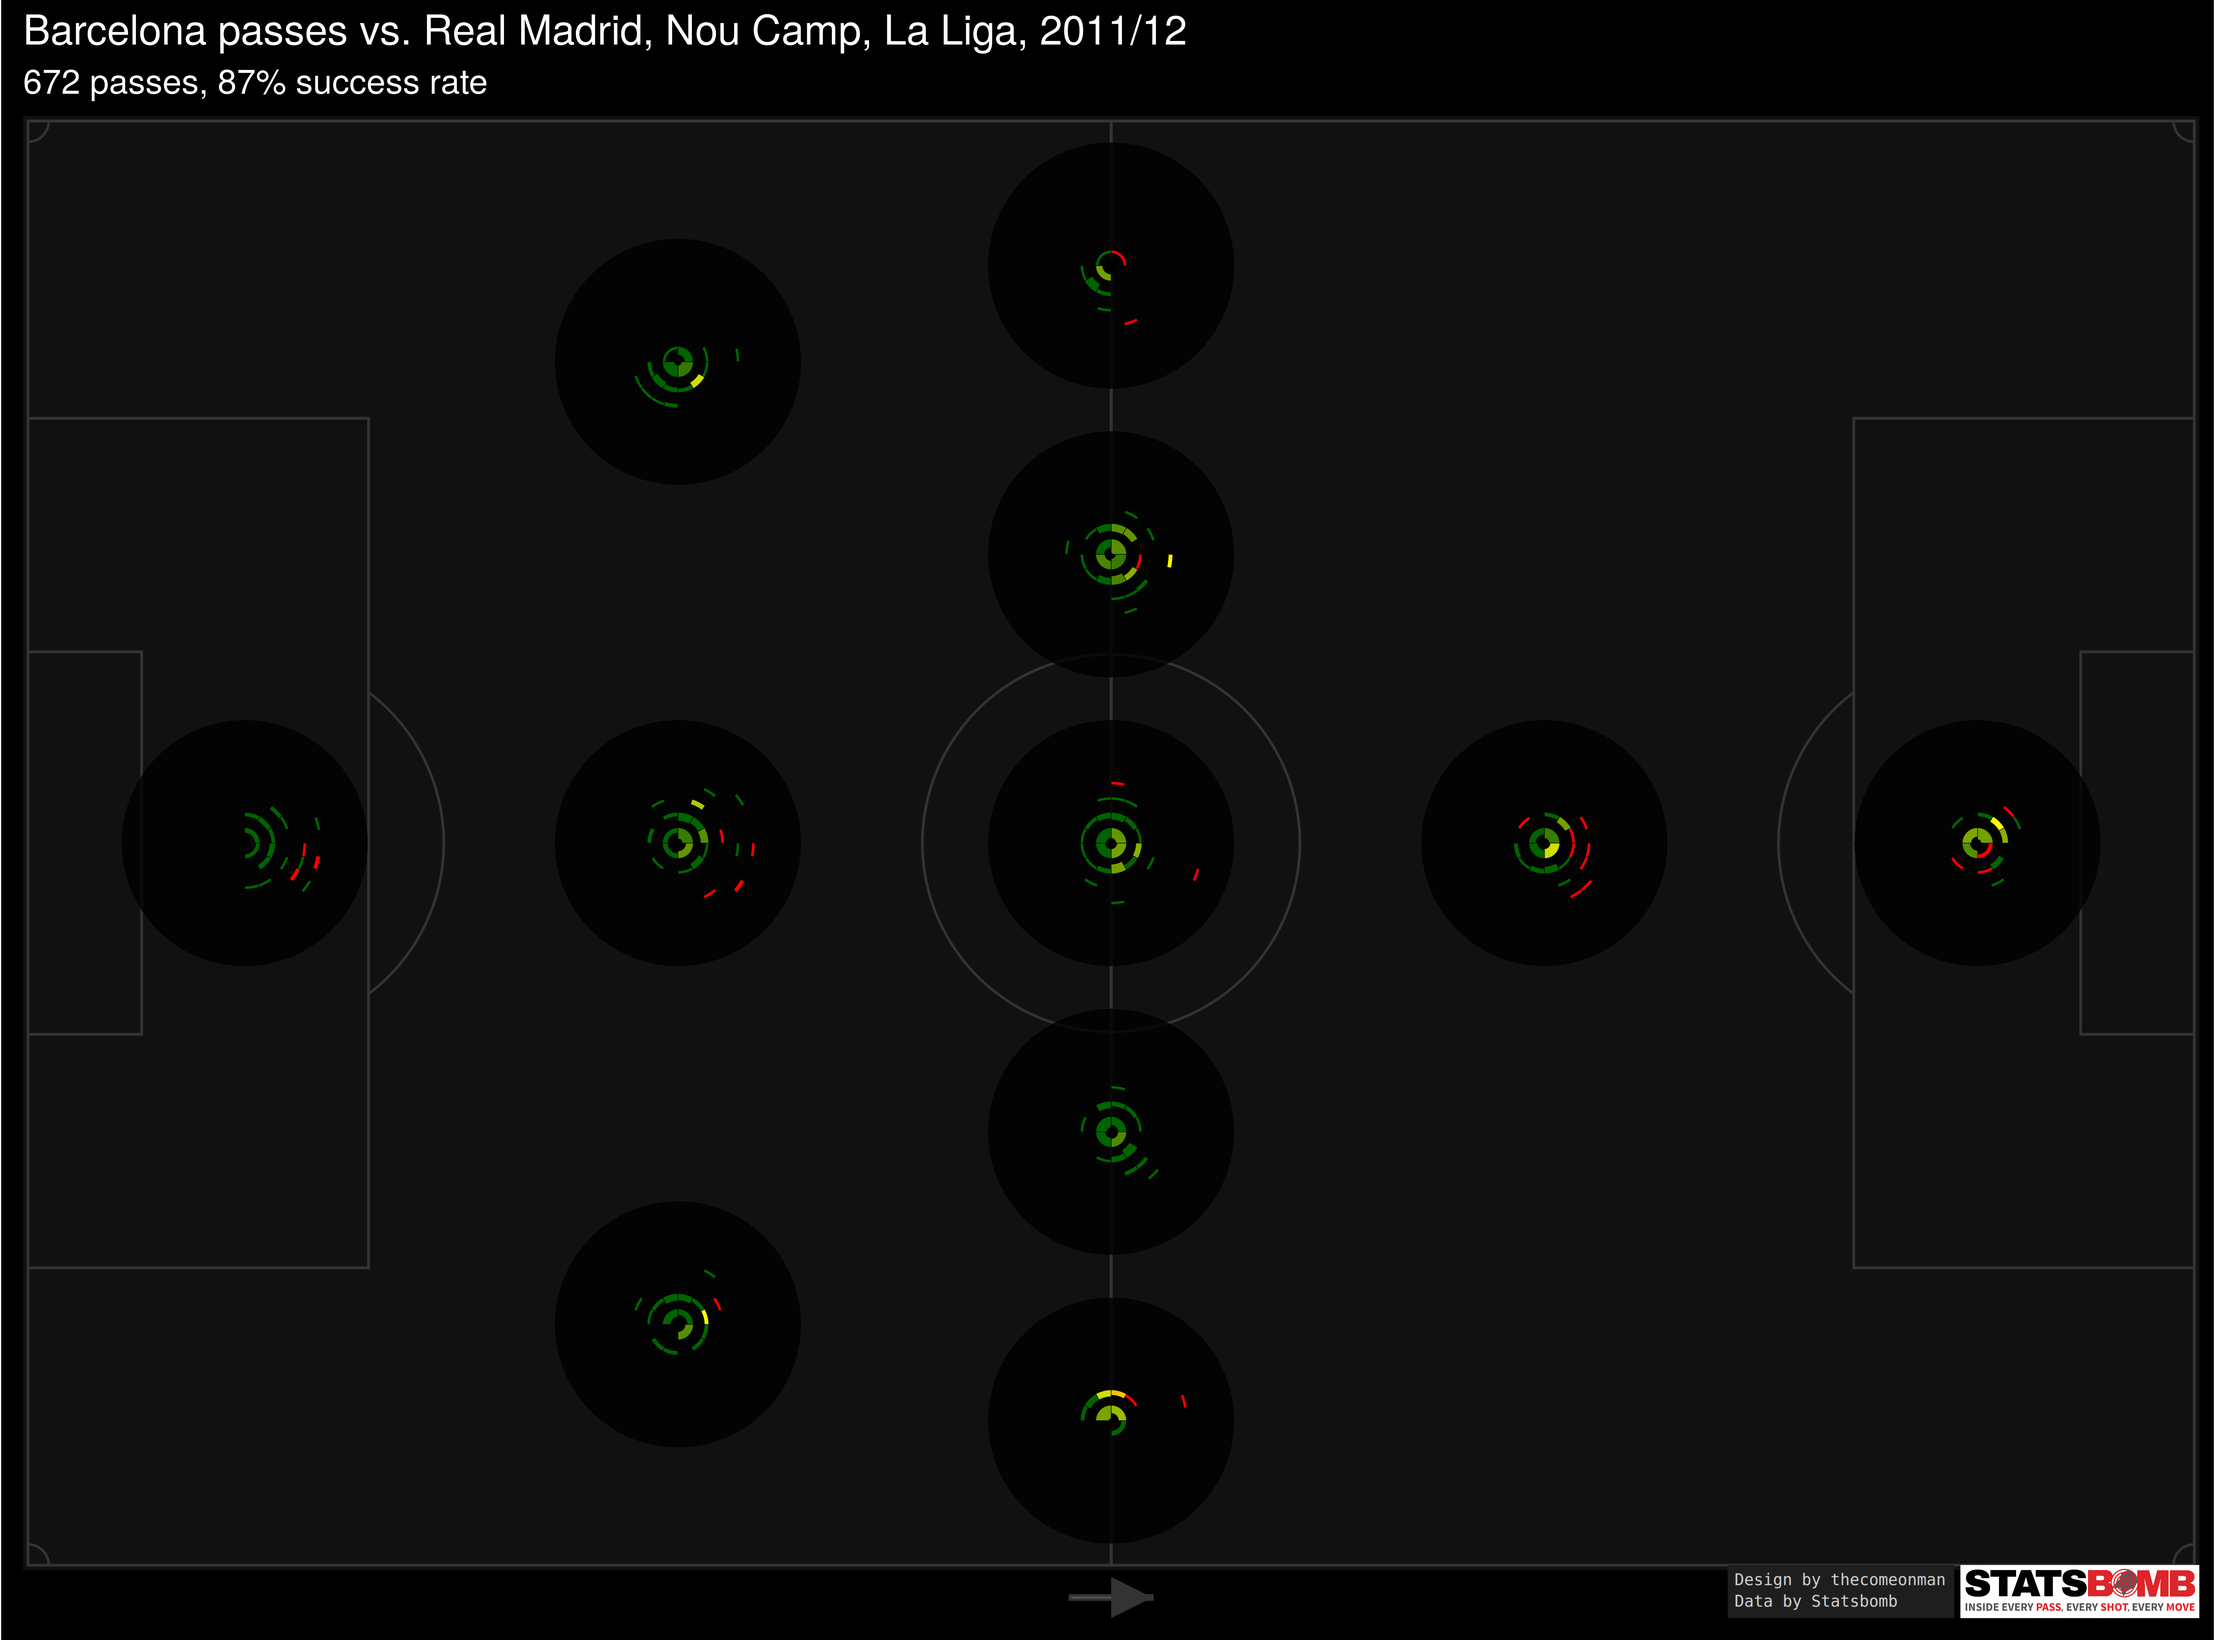
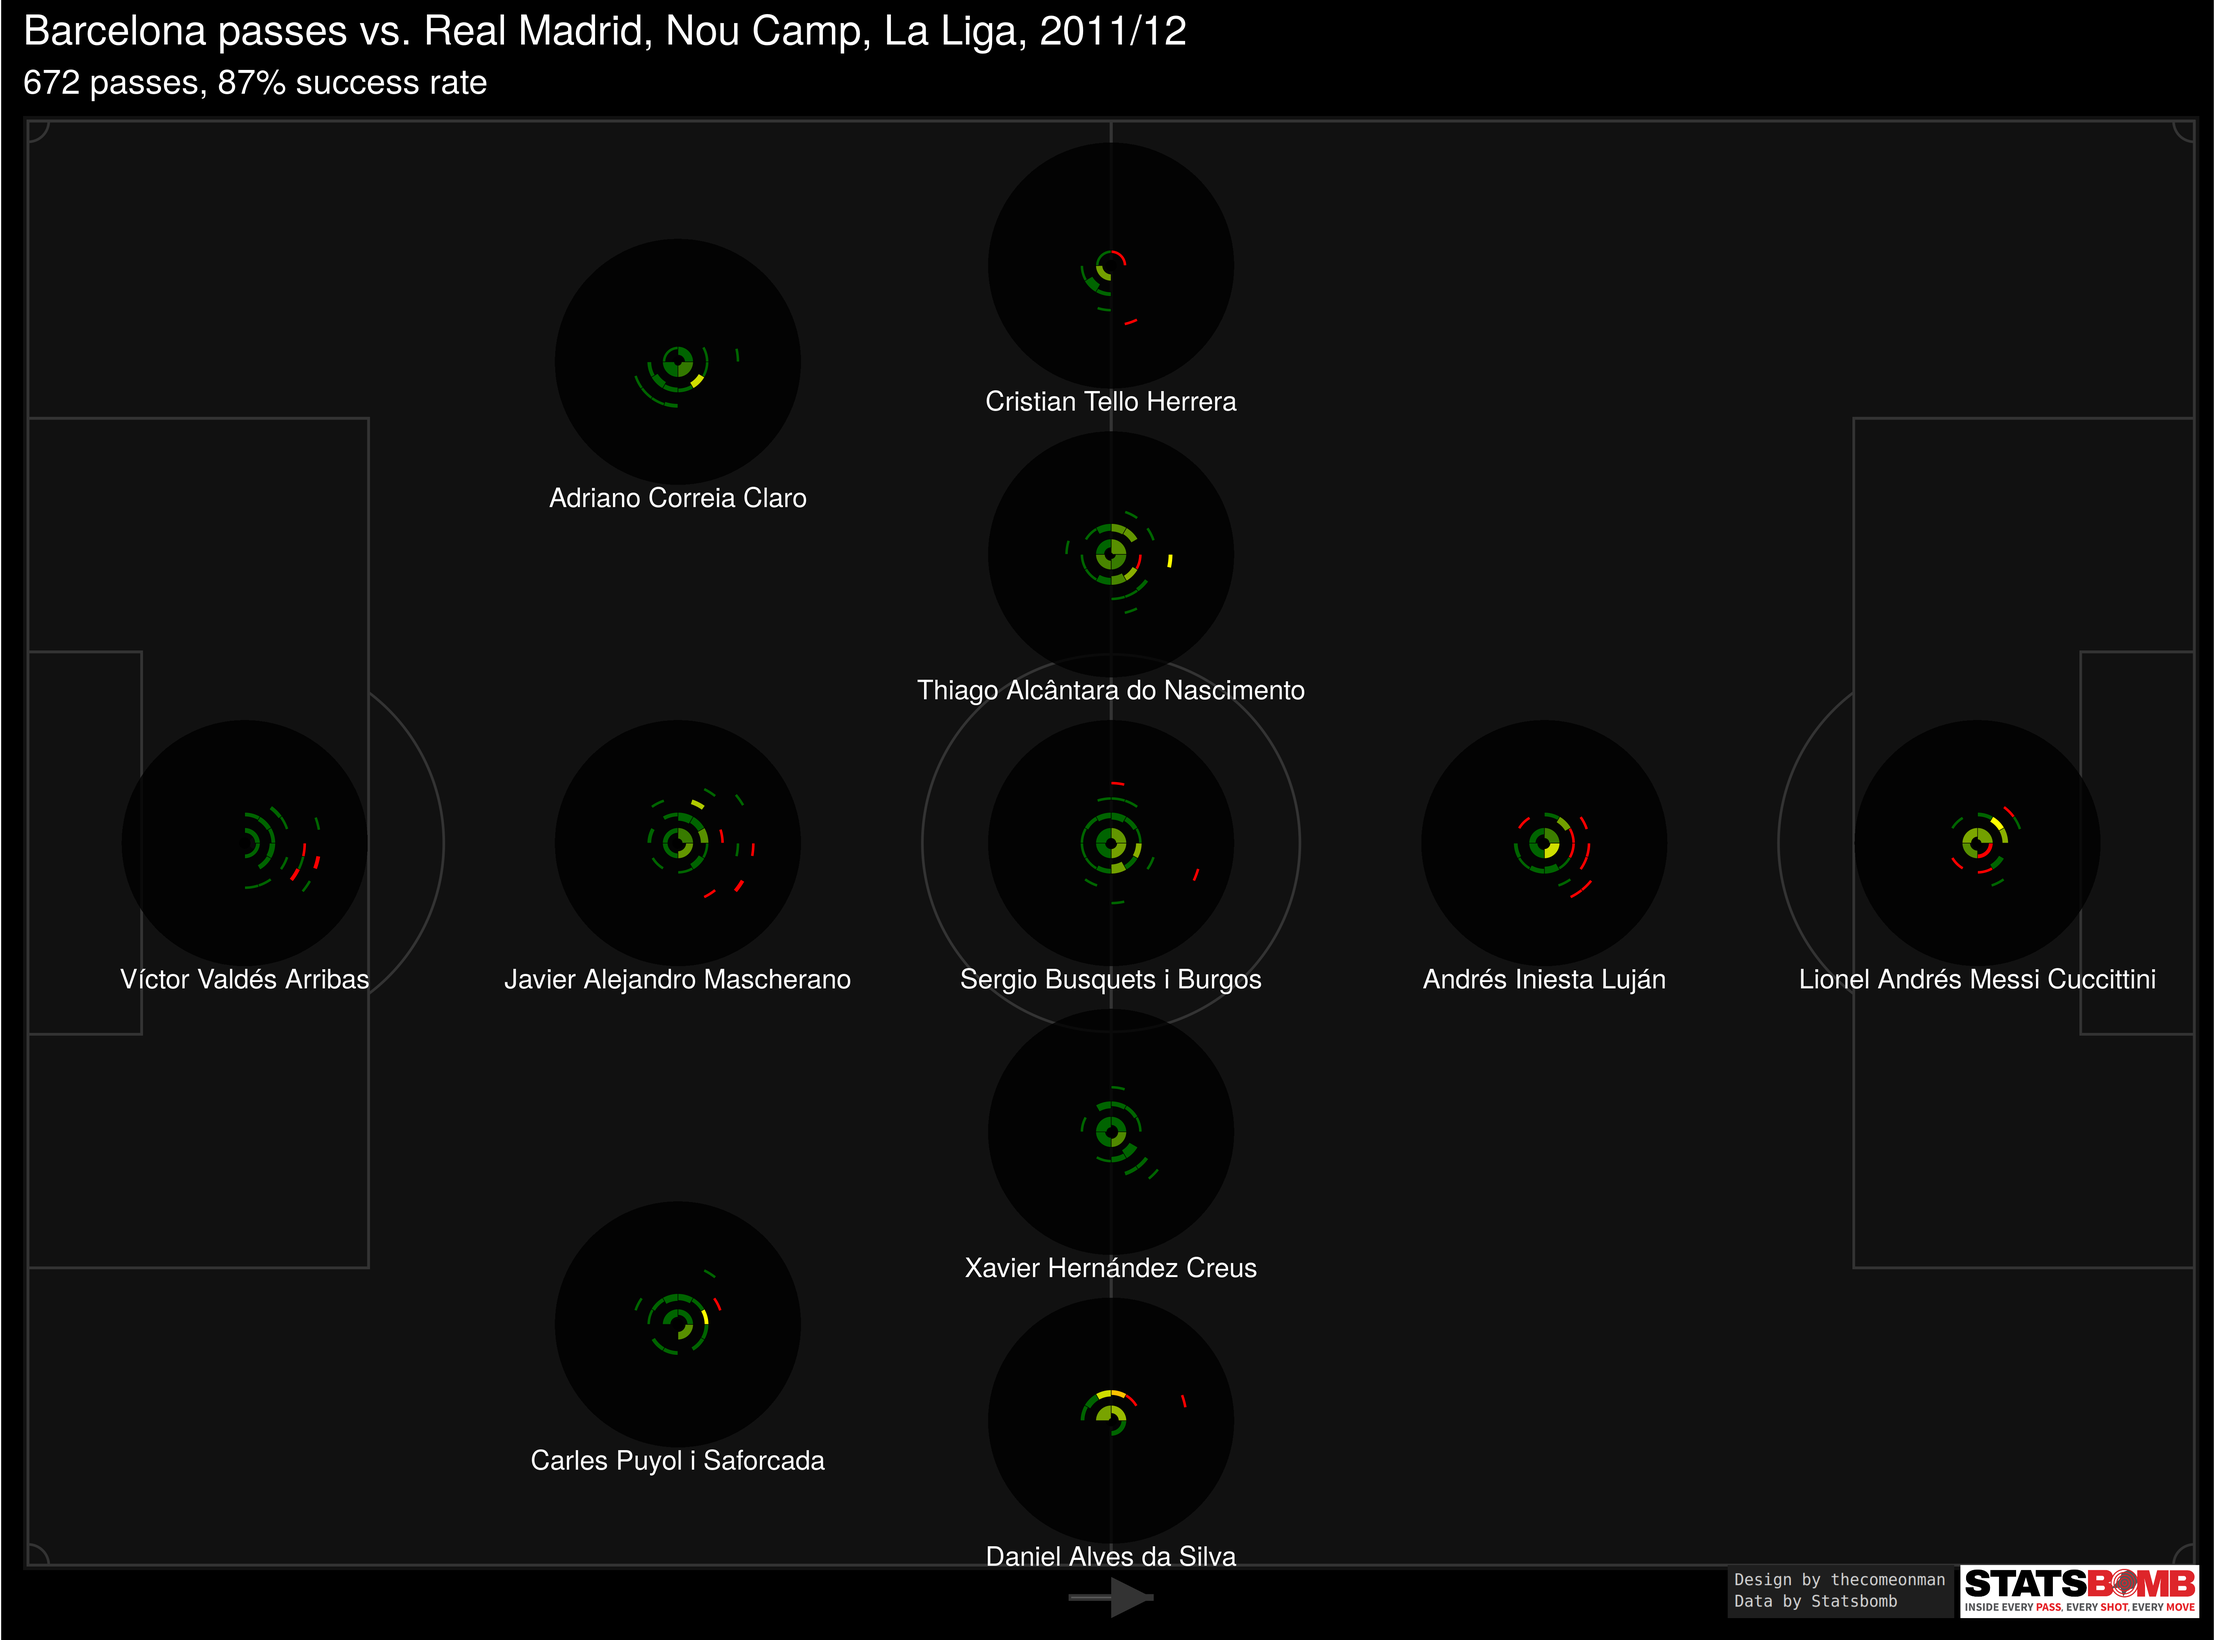
Added labels for player break up.

diff --git a/README.md b/README.md
@@ -89,3 +89,30 @@ we’re going to have to stick to sonar.
 ( opening images in a new tab by themselves might be a better view )
 
 <img src="./plotOverallSonar.png" width="1500" /><img src="./plotPitchBreakupSonar.png" width="1500" /><img src="./plotPlayerBreakupSonar.png" width="1500" />
+
+### How you can make this for your data
+
+The code is in R, in the Readme.Rmd file.
+
+Edit the self-explanatory variables in the Setup chunk. You may not have
+the watermark images in which case you can skip the watermarks chunk.
+
+The position coordinates for the formations for a 4-3-3 and a 3-5-1-1
+are available in the code but you will need to add these for your
+positions. ctrl + F for 3511 and add your formation details there.
+
+The dimensions of the final image affect the size of the text. For the
+pitch break up and the overall sonar, just use the settings I use. For
+the player split, depending on the formation the dimensions may change a
+little bit. I don’t know of a good way to control this.
+
+The fPlotSonar function has been tried with only these three
+configurations. Any experiments may yield bugs in the logic. Please
+report them on
+<a href="https://github.com/thecomeonman/PassingSonarAlternative" class="uri">https://github.com/thecomeonman/PassingSonarAlternative</a>.
+
+There are som todos sprinkled across the code. Useful to note, before
+making your own charts.
+
+Please give design credits back to thecomeonman. I haven't put a particular 
+license on this yet.
